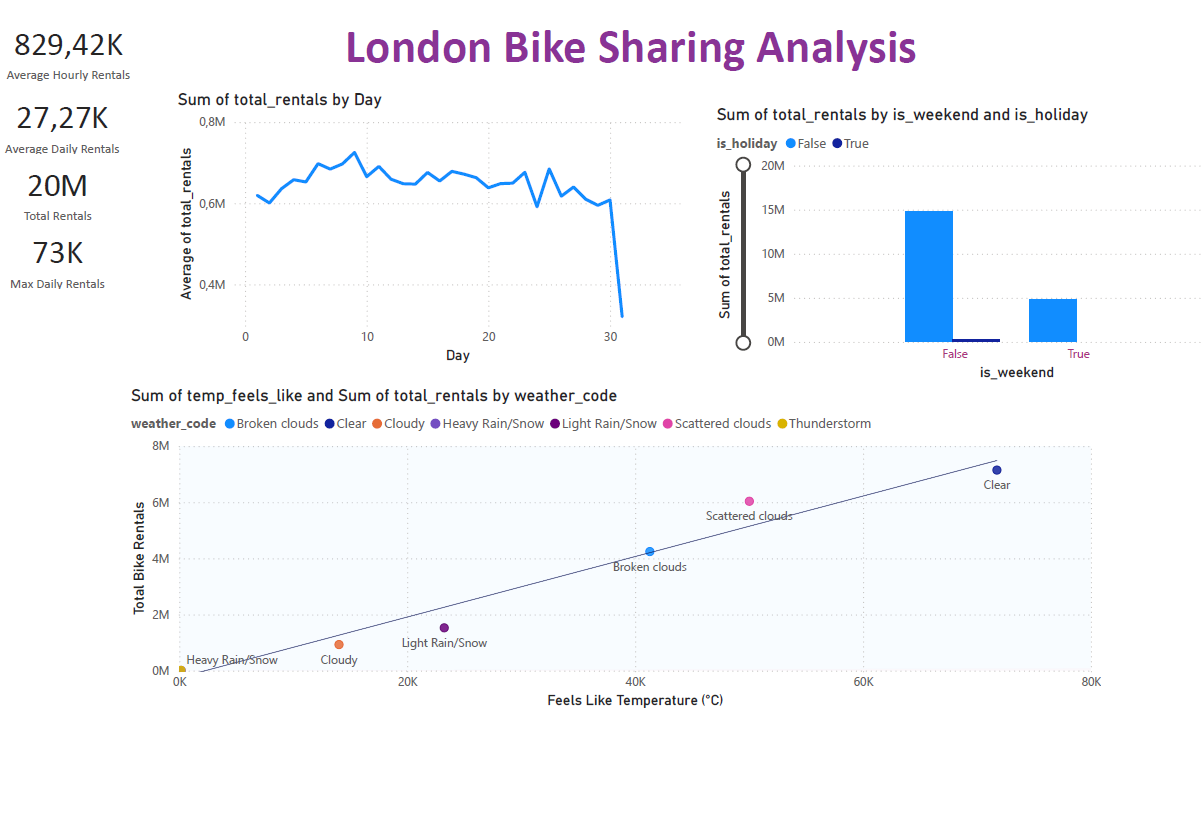
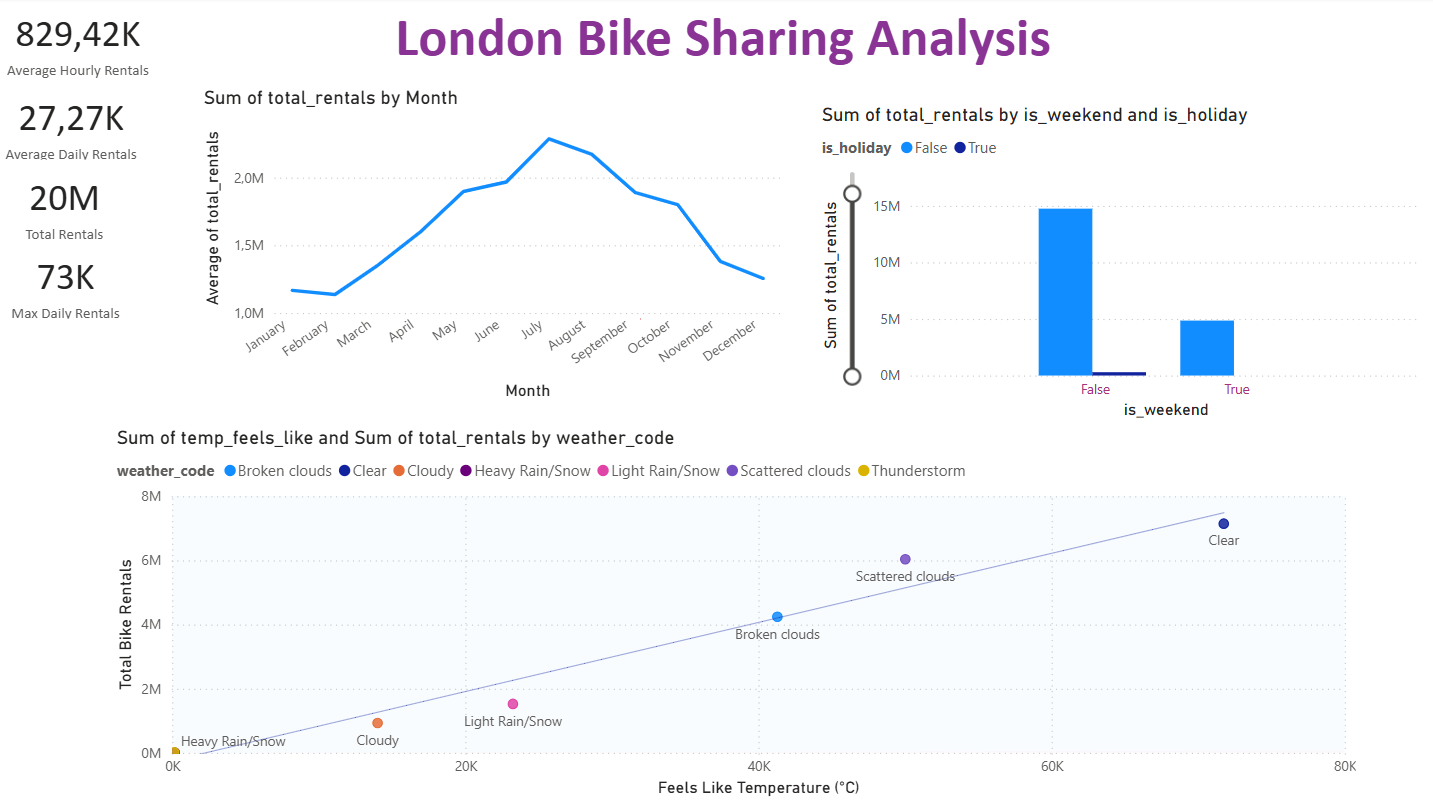
updated certificates

diff --git a/index.html b/index.html
@@ -87,7 +87,7 @@
         <div class="container position-relative z-index-2">
             <h1 class="display-3">Bethusile Mafumana</h1>
             <p class="lead mt-3">Cloud Engineer | Project Manager</p>
-            <p class="lead mt-3"> Azure Cloud | C# | SQL Server | ASP.NET Core | Java | Android | Git | Power BI
+            <p class="lead mt-3"> SQL | Power BI | Git | Visio | ASP.NET Core - C# | Java | Android | Azure 
                 
         </p>
             <a href="#projects" class="btn btn-pink mt-4 text-white">Learn More</a>
@@ -325,6 +325,38 @@
                         </div>
                         <!-- Project 2 coming 
                          *****************************************************************-->
+                        <div class="carousel-item ">
+                            <div class="row justify-content-center">
+                                <div class="col-md-7 mb-4">
+                                    <div class="card" data-bs-toggle="modal" data-bs-target="#projectModal2">
+                                        <a href="https://github.com/Bethusile/London-Bike-Sharing-Analysis" target="_blank" title="View github repo" style="text-decoration: none; color: inherit;">
+                                            <div class="card">
+                                                <img src="images/bike2.png" class="card-img-top" alt="Lost & Found Project" >
+                                            </div>
+                                        </a>
+                                        <div class="card-body text-center">
+                                            <h5 class="card-title">London Bike Sharing Analysis</h5>
+                                            <p class="card-text">
+                                                A comprehensive Power BI dashboard built to analyze bike rental trends in London from 2015-2017. 
+                                               This project focused on data cleaning and transformation using Power Query to handle inconsistencies and create a robust data model. 
+                                               Key insights were derived from analyzing the impact of weather conditions, seasonal patterns, and hourly trends on bike rentals.
+                                               The final dashboard includes interactive visuals and key performance indicators (KPIs) to provide actionable recommendations for optimizing operational planning and marketing strategies.
+                                            </p>
+                                            <div class="d-flex flex-wrap justify-content-center gap-3 my-3">
+                                                <span><i class="fas fa-chart-bar"></i> Power BI</span>
+                                                <span><i class="fas fa-wrench"></i> Power Query</span>
+                                                <span><i class="fas fa-calculator"></i> DAX</span>
+                                                <span><i class="fas fa-database"></i> Data Modeling</span>
+                                            </div>
+                                            <p><strong>Role:</strong> Data Analyst, Business Analyst</p>
+                                            <a href="https://github.com/Bethusile/London-Bike-Sharing-Analysis" class="btn btn-outline-pink btn-github mt-3" target="_blank" title="GitHub project link" style="font-size: 2.5rem;" onclick="event.stopPropagation();">
+                                                <i class="fab fa-github"></i>
+                                            </a>
+                                        </div>
+                                    </div>
+                                </div>
+                            </div>
+                        </div>
                         
                     </div>
                     <button class="carousel-control-prev" type="button" data-bs-target="#dataanalyticsCarousel" data-bs-slide="prev">
@@ -377,7 +409,7 @@
                     <p>Nelson Mandela University | 2025 </p>
                     <ul>
                         <li>Object Oriented Programming | Data Structures and Algorithms | Advanced Programming | Web Systems</li>
-                        <li>Agile Development | Networks | Information Systems | UI/UX Design | Databases 
+                        <li>Agile Development | Networks | Information Systems | UI/UX Design | Databases | Project Management</li>
                     </ul>
 
                     <h5 class="mt-4">BCom Accounting</h5>
@@ -418,19 +450,35 @@
             <!-- Certifications -->
             <div class="tab-pane fade" id="certifications" role="tabpanel">
                 <div class="card p-4 shadow border border-pink">
-                    <h5>
-                        <img src="images/azure.jpg" 
-                            alt="Azure Logo" style="height:40px; margin-right:8px;">
-                        Microsoft Azure Fundamentals (AZ-900)
-                    </h5>
-                        <p>Expected November 2025</p>
-                    <hr>
+                    <!-- Umuzi -->
                     <h5>
                         <img src="images/umuzi.png" 
                         alt="Umuzi Logo" style="height:50px; margin-right:8px;">
                         Umuzi - Advanced Project Management Learnership
                     </h5>
                         <p>Expected March 2026 </p>
+                    <hr>     
+                    <br/>
+                    <!-- Azure -->
+                    <h5>
+                        <img src="images/azure.jpg" 
+                            alt="Azure Logo" style="height:40px; margin-right:8px;">
+                        Microsoft Azure Fundamentals (AZ-900)
+                    </h5>
+                        <p>Expected November 2025</p>                         
+
+                    <hr>
+                    <br/>
+                    <!-- Google -->
+                    <h5>
+                        <img src="https://upload.wikimedia.org/wikipedia/commons/2/2f/Google_2015_logo.svg" 
+                            alt="Google Logo" style="height:30px; margin-right:8px;">
+                        Data Analytics Certification
+                    </h5>
+                    <p>Completed - 
+                        <a href="https://www.coursera.org/account/accomplishments/professional-cert/FU6TGZYHKWAH?utm_source=link&utm_medium=certificate&utm_content=cert_image&utm_campaign=sharing_cta&utm_product=prof" 
+                        class="btn-outline-pink">View Certificate</a>
+                    </p> 
 
                     <!-- ALX Data Engineering 
                     <h5 class="mt-4">
@@ -439,18 +487,7 @@
                         ALX Data Science Program – Online Course
                     </h5>
                     <p>Expected May 2026 (8 months)</p> -->
-
-                    <!-- Google 
-                    <h5>
-                        <img src="https://upload.wikimedia.org/wikipedia/commons/2/2f/Google_2015_logo.svg" 
-                            alt="Google Logo" style="height:20px; margin-right:8px;">
-                        Data Analytics Certification
-                    </h5>
-                    <p>Completed - 
-                        <a href="https://www.coursera.org/account/accomplishments/professional-cert/FU6TGZYHKWAH?utm_source=link&utm_medium=certificate&utm_content=cert_image&utm_campaign=sharing_cta&utm_product=prof" 
-                        class="btn-outline-pink">View Certificate</a>
-                    </p> -->
-                    
+                                        
                     <!-- AWS Cloud Practitioner 
                     <h5 class="mt-4">
                         <img src="https://upload.wikimedia.org/wikipedia/commons/9/93/Amazon_Web_Services_Logo.svg" 

diff --git a/site.css b/site.css
@@ -201,7 +201,7 @@ h1.display-3:hover {
 
 .btn-outline-pink:hover {
     background-color: var(--pink-primary);
-    color: white;
+    /*color: white;*/
 }
 
 /* Responsive Adjustments */
@@ -343,7 +343,7 @@ h1.display-3:hover {
 .btn-outline-pink {
     /* color: #ff69b4; Pink text color */
     text-decoration: none;
-    background-color: white; /* Transparent background */
+    /*background-color: white;  Transparent background */
 }
 
 /*Projects styling*/

diff --git a/about.html b/about.html
@@ -108,6 +108,7 @@
                     <li><i class="fas fa-lock"></i> Cloud Security Fundamentals</li>
                     <li><i class="fas fa-cloud"></i> Cloud Infrastructure</li>
                     <li><i class="fas fa-cloud"></i> Azure</li>
+                    <li><i class="fas fa-code-branch"></i> Visio</li>
                     <!--<li><i class="fas fa-cloud"></i> AWS</li> -->
                 </ul>
 
